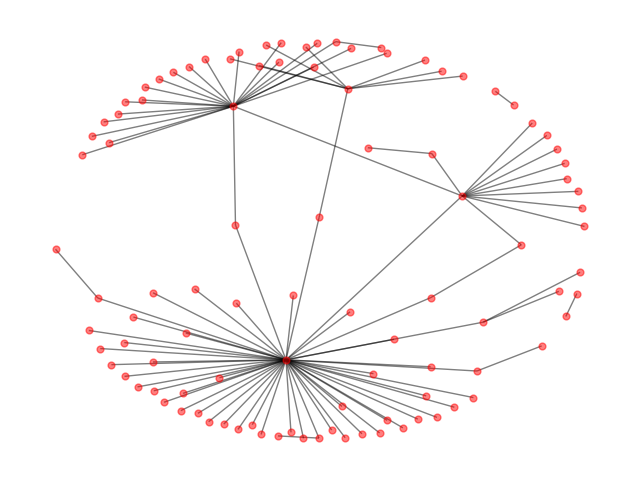
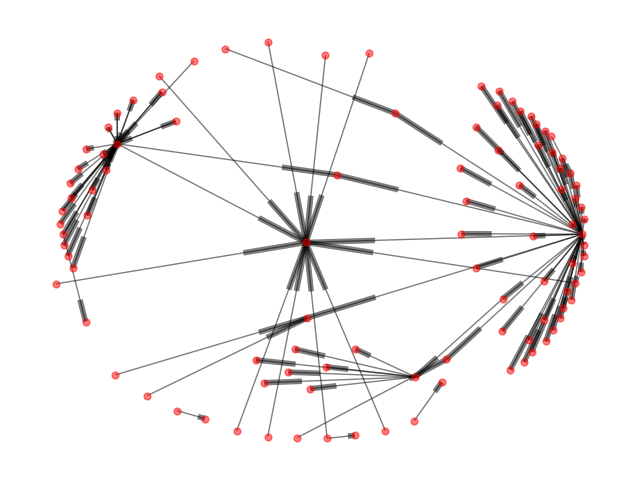
Convierte el grafo en digrafo

diff --git a/tp1/plots/grafo.py b/tp1/plots/grafo.py
@@ -6,7 +6,7 @@ import matplotlib.pyplot as plt
  
 
 def plot(graph):
-    G = nx.Graph()
+    G = nx.DiGraph()
     G.add_nodes_from(graph['nodes'])
     for u, v, c in graph['edges']:
         G.add_edge(u, v, cost=str(c)) 
